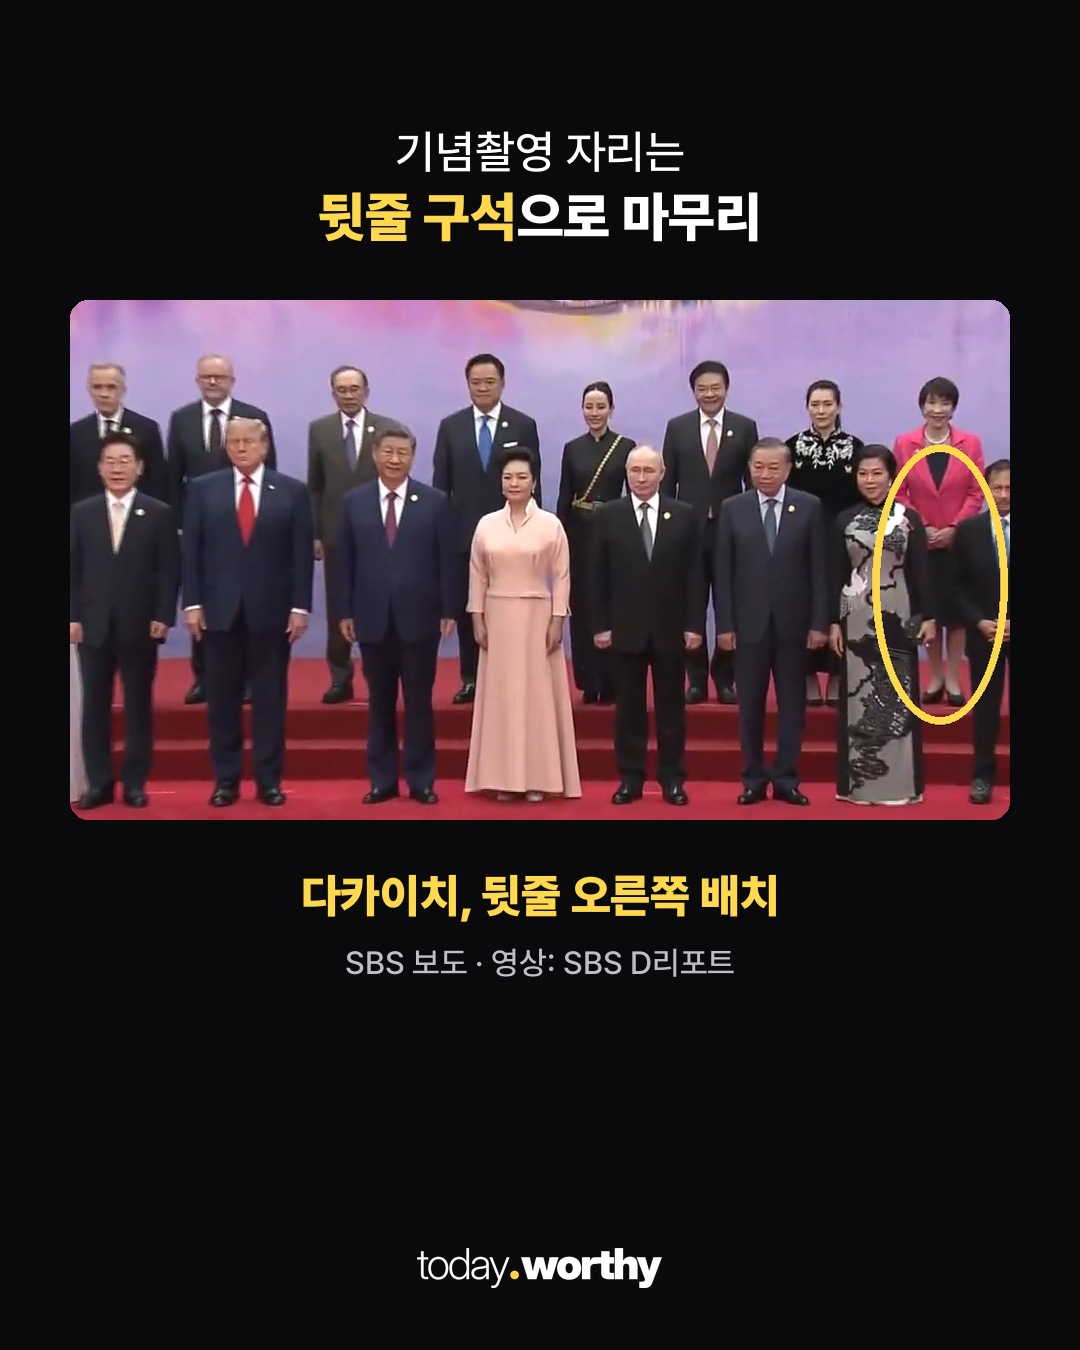
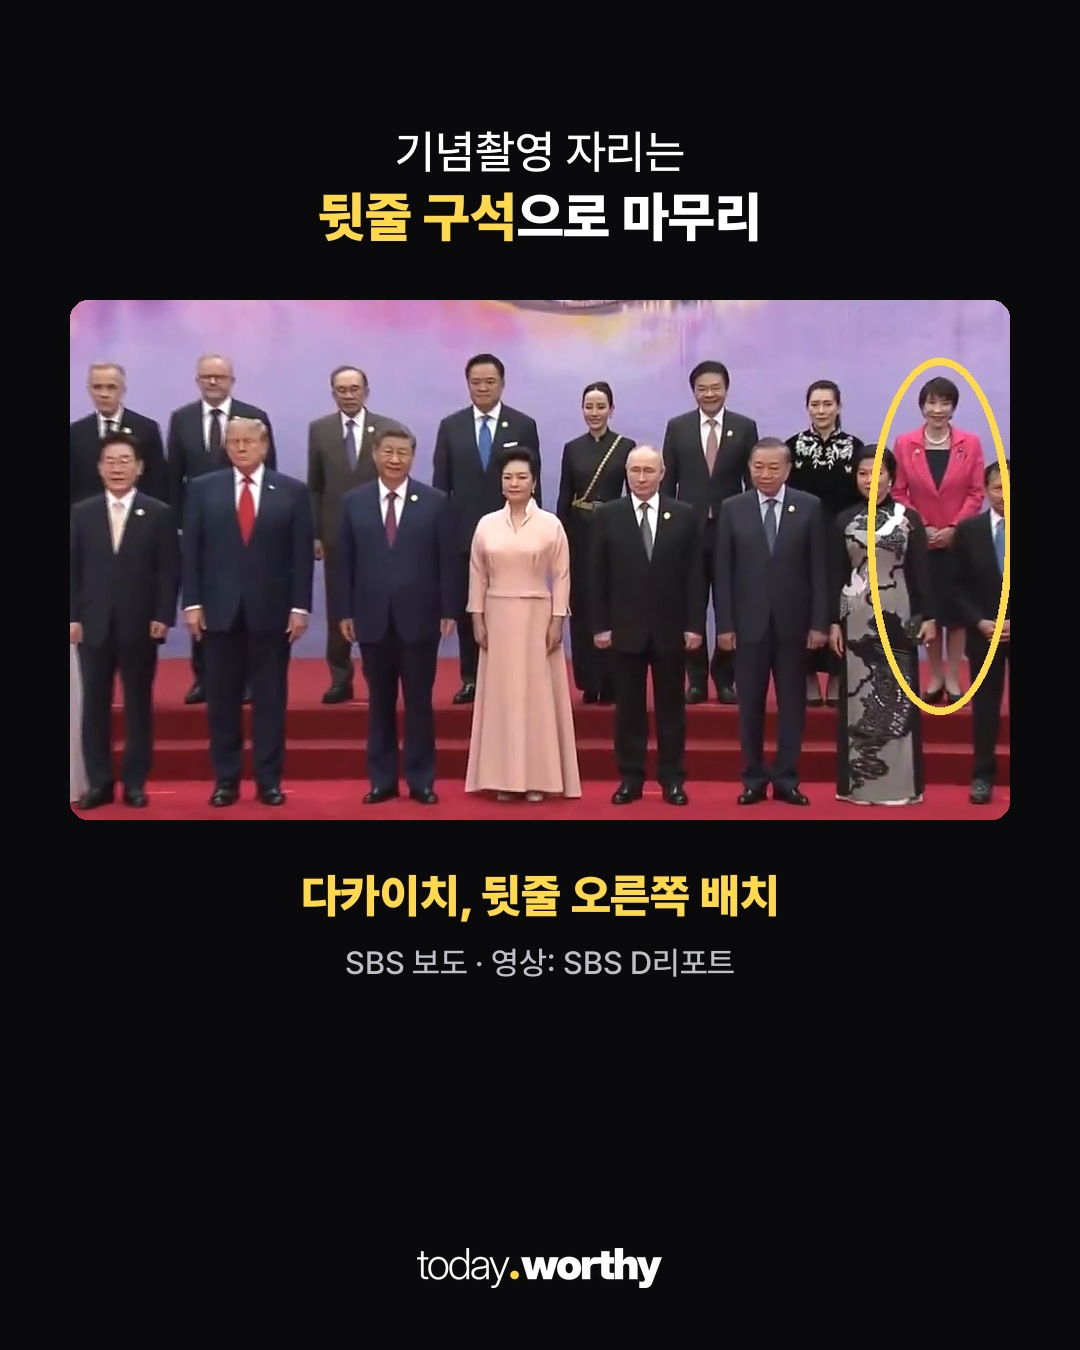
xiref: 기념촬영 동그라미 위치(승인 대기)
Claude-Session: https://claude.ai/code/session_01FGsw5SxBSM2MD7US2amqEo

Changed region(s): [[0.7944, 0.2489, 0.9472, 0.56]]

diff --git a/media/20261120-xiref/build_cards.py b/media/20261120-xiref/build_cards.py
@@ -110,7 +110,7 @@ frame(("만찬장에선", "말 건네도 '대답 없이'"), fit(sbs("y_80.8.png"
 frame(("만찬장 입장도", "'혼자' 걸어 들어왔다"), fit(sbs("y_77.6.png"), 940, 700, (.5, .3)),
       "웃으며 들어왔지만", "영상: SBS D리포트").save(O / "c08.jpg", quality=93)
 # 9 기념촬영 뒷줄
-g = op("y_42.5.png").crop((0, 100, 1280, 640)); ring(g, (985, 150, 1125, 440))
+g = op("y_42.5.png").crop((0, 100, 1280, 640)); ring(g, (980, 60, 1130, 430))
 frame(("기념촬영 자리는", "'뒷줄 구석'으로 마무리"), fit(g, 940, 520, (.5, .5)),
       "다카이치, 뒷줄 오른쪽 배치", "SBS 보도 · 영상: SBS D리포트").save(O / "c09.jpg", quality=93)
 # 표지: 기념촬영(시진핑 앞줄, 다카이치 뒷줄 노란 동그라미) 위쪽 크게 + 아래 어두운 제목 자리
